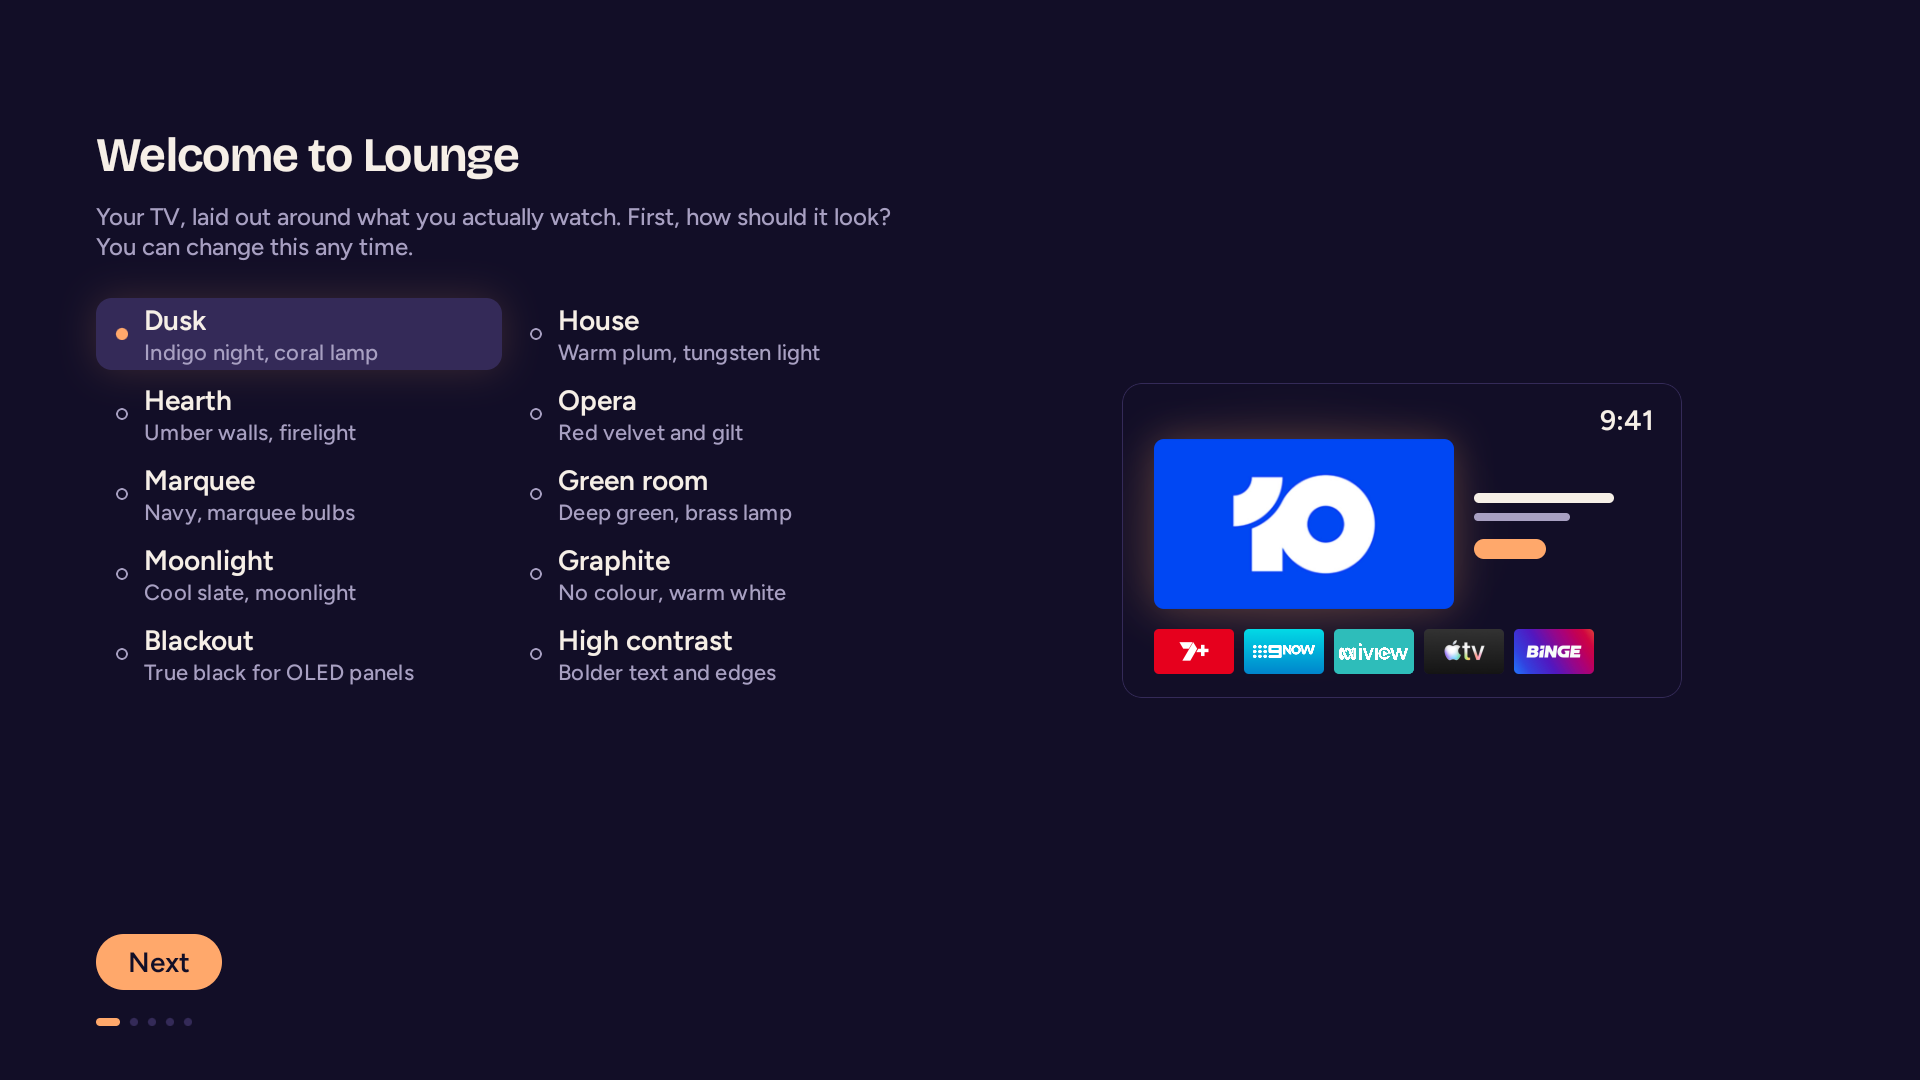
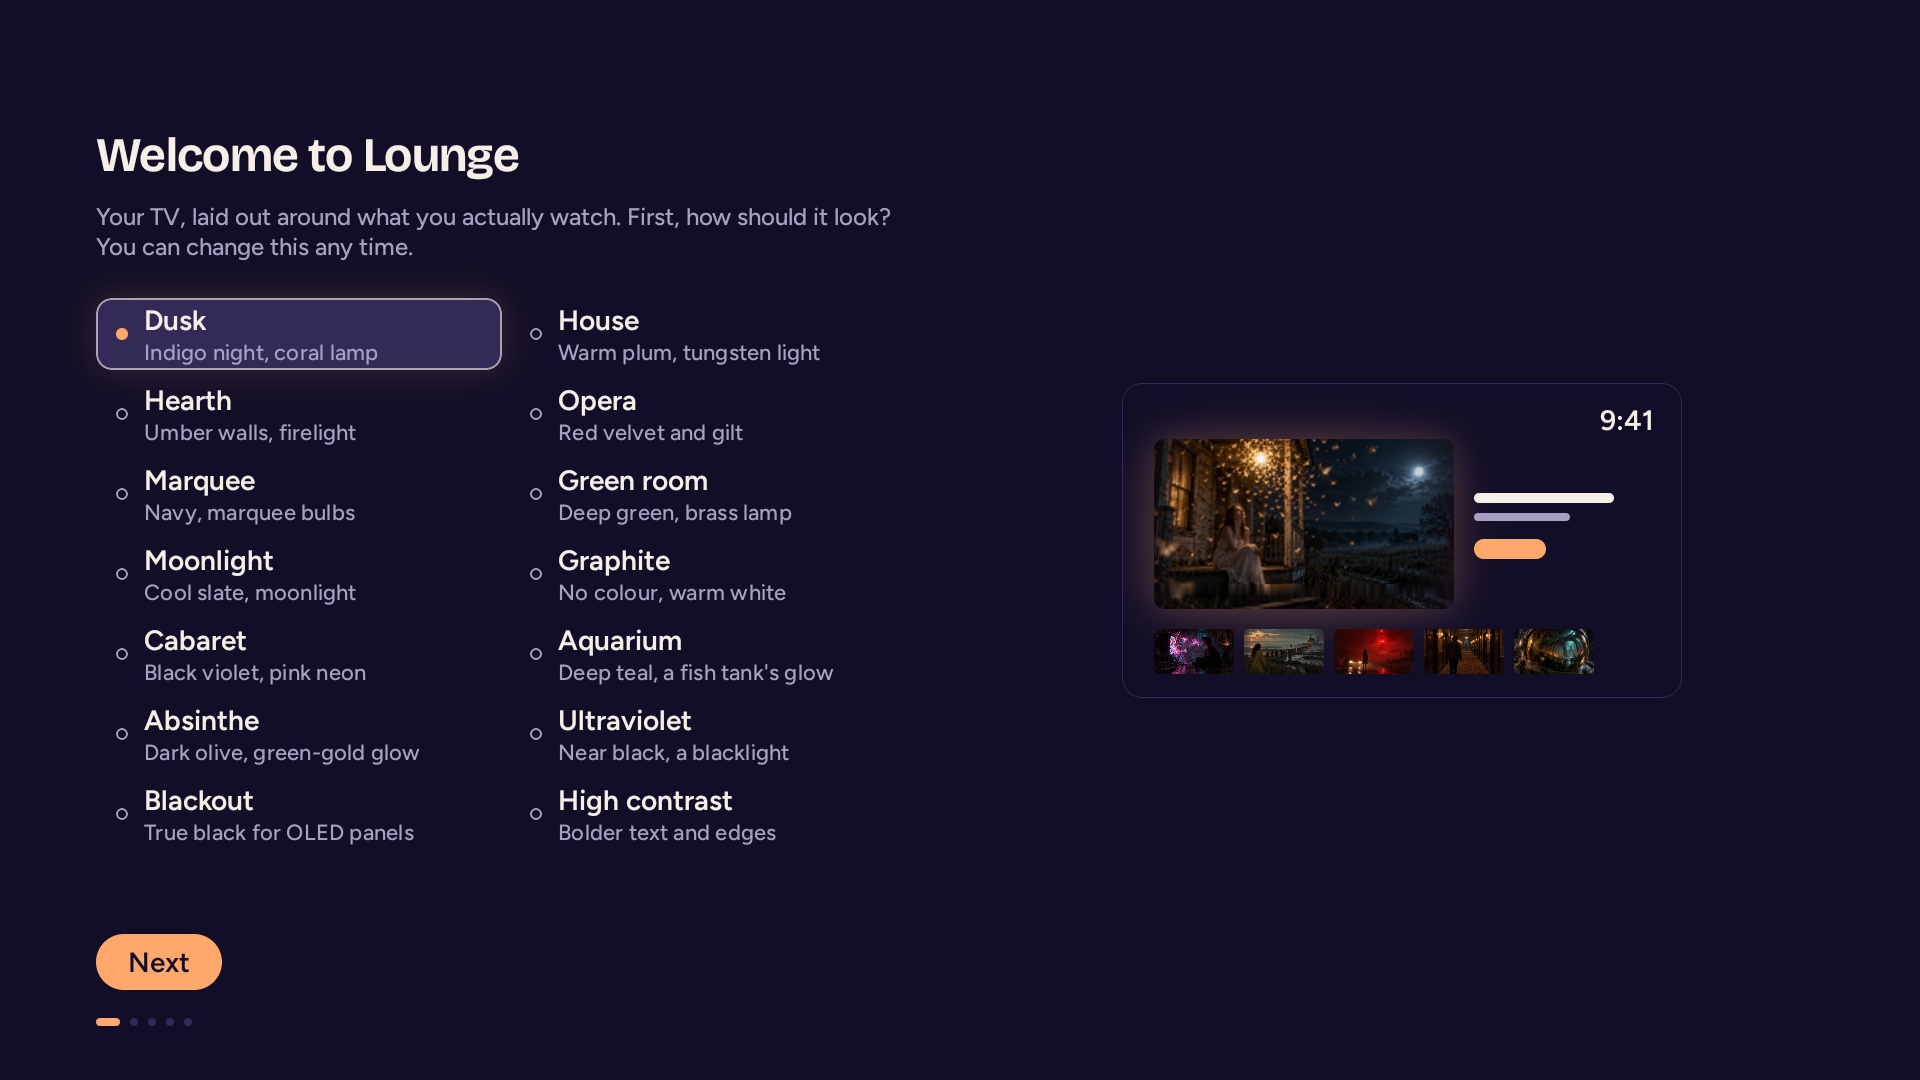
Retake the README's themes, settings and setup pictures
The themes picture showed ten of fourteen, the setup picture a grid
of ten, and the settings picture an older sheet. They are taken again
on the Google TV Streamer, and a picture of the notifications panel
joins them. The made-up library was rebuilt from the artwork in the
home picture.

diff --git a/README.md b/README.md
@@ -152,6 +152,7 @@ a phone, done. All of it is in Settings afterwards.
 <p align="center">
   <img src="docs/screenshots/rows.png" width="49%" alt="The Stage lowered to a band of its picture's own light, with the rows below it: Just added, then a row of posters">
   <img src="docs/screenshots/tile-menu.png" width="49%" alt="The long-press menu beside a poster, with Pin to Stage and Hide, and the room dimmed around it">
+  <img src="docs/screenshots/notifications.png" width="49%" alt="The notifications panel beside the home screen: three notifications from two apps, each with its title, a line of its text, and who posted it and when">
 </p>
 
 ## The phone
@@ -250,7 +251,7 @@ minute without the remote the lights go down. Fourteen themes change the walls a
 nothing else.
 
 <p align="center">
-  <img src="docs/screenshots/themes.png" width="920" alt="Ten of the fourteen themes, each shown as the home screen with the Settings sheet open">
+  <img src="docs/screenshots/themes.png" width="920" alt="The fourteen themes, each shown as the home screen with the Settings sheet open">
 </p>
 
 The type is Bricolage Grotesque and Figtree, both bundled. Reduced motion follows the system
